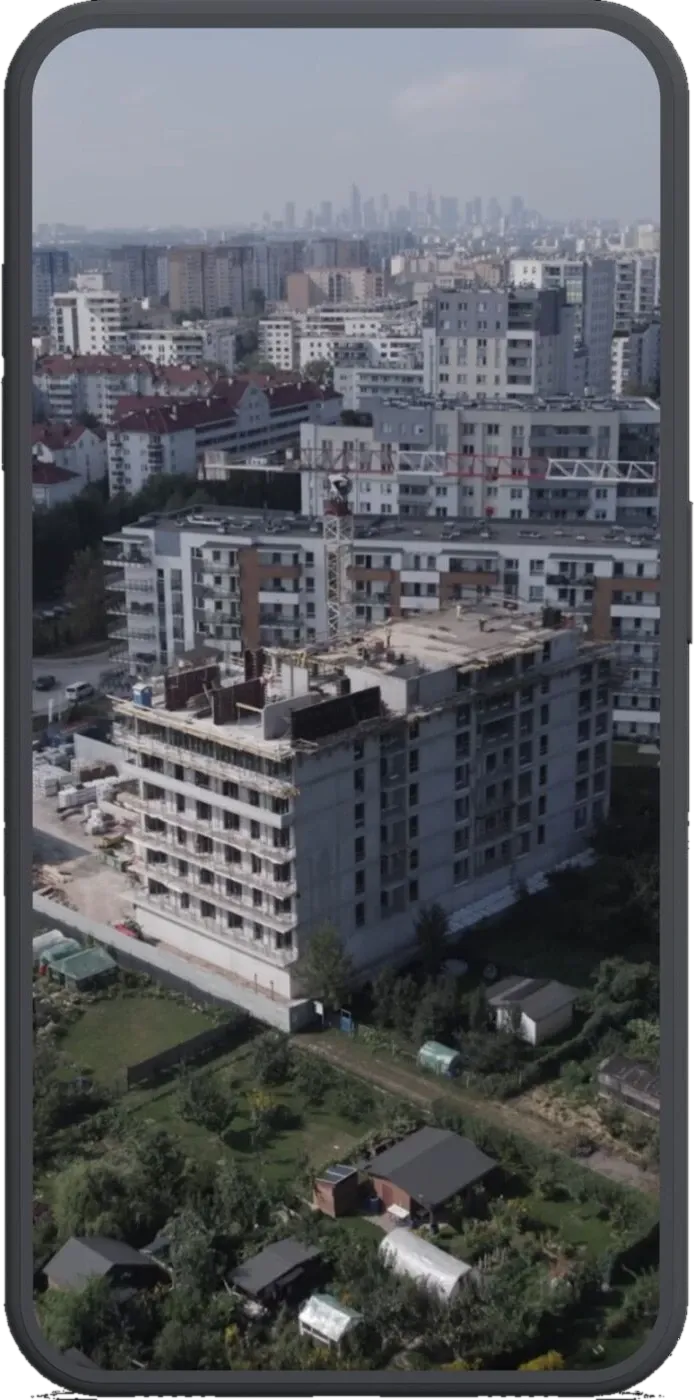
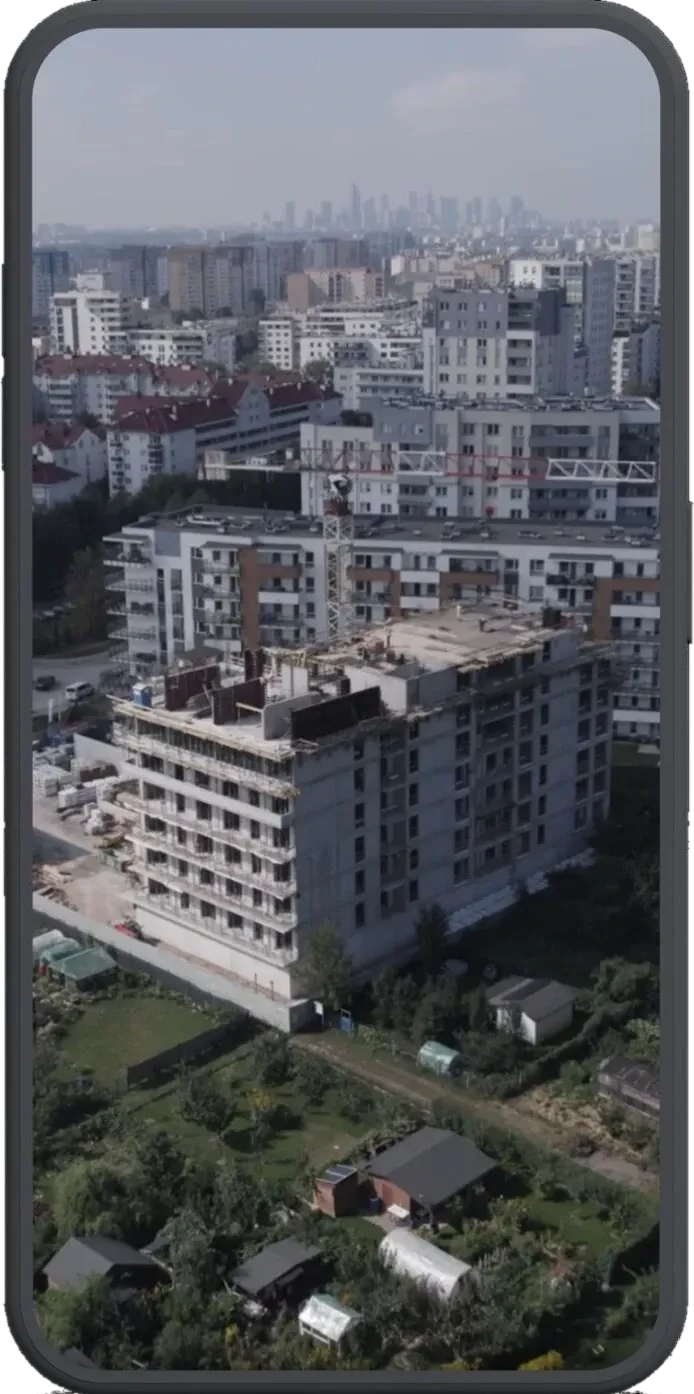
fix(branze): clean the ed-invest phone cutouts and stop carding them
The three ed-invest mockups on /branze/nieruchomosci-i-deweloperzy showed a
dirty strip under each phone (owner report with markup): ragged
semi-transparent leftovers of the source photo's bottom edge below the
bezel, plus the tile's cream card and drop shadow showing through the
cutout's transparent rounded corners as pale wedges and a bright seam.

Two-part fix. The files lose the junk rows below the bezel's clean edge
(694×1400 → 694×1394, re-encoded webp q90, ?v=3 since the optimizer caches
variants by URL for 30 days). And a new `cutout` flag on wall creatives
renders the tile with no background, shadow, or radius — an alpha cutout
carries its own silhouette and baked shadow, so the card has nothing to
add. Only the ed-invest trio is flagged; opaque tiles and the other walls'
cutouts (julius-meinl, irobot) keep the card look per the owner's scoping.

Claude-Session: https://claude.ai/code/session_01UiGbLWbwr8rxuKCX2DV3f6

diff --git a/lib/content/branze.ts b/lib/content/branze.ts
@@ -97,6 +97,10 @@ interface IndustryImage {
 export interface IndustryCreative extends IndustryImage {
   width: number
   height: number
+  /** Alpha-cutout phone mockup: the wall tile must not paint its cream card
+      or shadow behind it — the transparent rounded corners would show them
+      as pale wedges under the phone (owner report, 2026-08-24). */
+  cutout?: true
 }
 
 /** A brief paragraph; `strong` (if set) is an exact substring rendered bold. */
@@ -1209,22 +1213,25 @@ export const INDUSTRIES = [
       cardTitle: 'Deweloper na Facebooku, Instagramie i\u00A0LinkedInie',
       creatives: [
         {
-          src: '/case-studies/ed-invest/ed-invest-gallery-1-cut.webp?v=2',
+          src: '/case-studies/ed-invest/ed-invest-gallery-1-cut.webp?v=3',
           alt: 'Kadr z nagrania wideo ED Invest — widok z lotu ptaka na realizowaną inwestycję mieszkaniową na tle panoramy miasta',
           width: 694,
-          height: 1400,
+          height: 1394,
+          cutout: true,
         },
         {
-          src: '/case-studies/ed-invest/ed-invest-gallery-3-cut.webp?v=2',
+          src: '/case-studies/ed-invest/ed-invest-gallery-3-cut.webp?v=3',
           alt: 'Relacja wideo z eventu branżowego Orange Ball — scena z logo ED Invest podczas wydarzenia',
           width: 694,
-          height: 1400,
+          height: 1394,
+          cutout: true,
         },
         {
-          src: '/case-studies/ed-invest/ed-invest-gallery-4-cut.webp?v=2',
+          src: '/case-studies/ed-invest/ed-invest-gallery-4-cut.webp?v=3',
           alt: 'Zdjęcie grupowe przedstawicieli ED Invest z wyróżnieniem podczas branżowej gali',
           width: 694,
-          height: 1400,
+          height: 1394,
+          cutout: true,
         },
         {
           src: '/case-studies/ed-invest/ed-invest-gallery-5.jpg',

diff --git a/lib/content/branze.en.ts b/lib/content/branze.en.ts
@@ -1027,22 +1027,25 @@ export const INDUSTRIES = [
       cardTitle: 'A developer on Facebook, Instagram and LinkedIn',
       creatives: [
         {
-          src: '/case-studies/ed-invest/ed-invest-gallery-1-cut.webp?v=2',
+          src: '/case-studies/ed-invest/ed-invest-gallery-1-cut.webp?v=3',
           alt: 'Frame from an ED Invest video, an aerial view of a residential development under construction against the city skyline',
           width: 694,
-          height: 1400,
+          height: 1394,
+          cutout: true,
         },
         {
-          src: '/case-studies/ed-invest/ed-invest-gallery-3-cut.webp?v=2',
+          src: '/case-studies/ed-invest/ed-invest-gallery-3-cut.webp?v=3',
           alt: 'Video coverage of the Orange Ball industry event, a stage carrying the ED Invest logo',
           width: 694,
-          height: 1400,
+          height: 1394,
+          cutout: true,
         },
         {
-          src: '/case-studies/ed-invest/ed-invest-gallery-4-cut.webp?v=2',
+          src: '/case-studies/ed-invest/ed-invest-gallery-4-cut.webp?v=3',
           alt: 'A group photo of ED Invest representatives with their award at an industry gala',
           width: 694,
-          height: 1400,
+          height: 1394,
+          cutout: true,
         },
         {
           src: '/case-studies/ed-invest/ed-invest-gallery-5.jpg',

diff --git a/app/(frontend)/branze/[slug]/industry.module.css b/app/(frontend)/branze/[slug]/industry.module.css
@@ -589,6 +589,18 @@
   }
 }
 
+/* An alpha-cutout phone mockup carries its own silhouette and baked shadow,
+   so the tile paints nothing: the cream card showed through the transparent
+   rounded corners as pale wedges under the phone, and the card's drop shadow
+   drew a bright seam beneath the bezel (owner report, 2026-08-24,
+   /branze/nieruchomosci-i-deweloperzy). No radius either — clipping a
+   transparent box only nibbles the baked shadow's corners. */
+.wallItem[data-cutout] {
+  background: none;
+  box-shadow: none;
+  border-radius: 0;
+}
+
 .wallImg {
   display: block;
   width: 100%;

diff --git a/app/(frontend)/branze/[slug]/industry-page.tsx b/app/(frontend)/branze/[slug]/industry-page.tsx
@@ -599,6 +599,7 @@ function CreativesWall({
               data-reveal-item
               data-landscape={landscape || undefined}
               data-wide={wide || undefined}
+              data-cutout={creative.cutout || undefined}
               className={s.wallItem}
             >
               <Image
